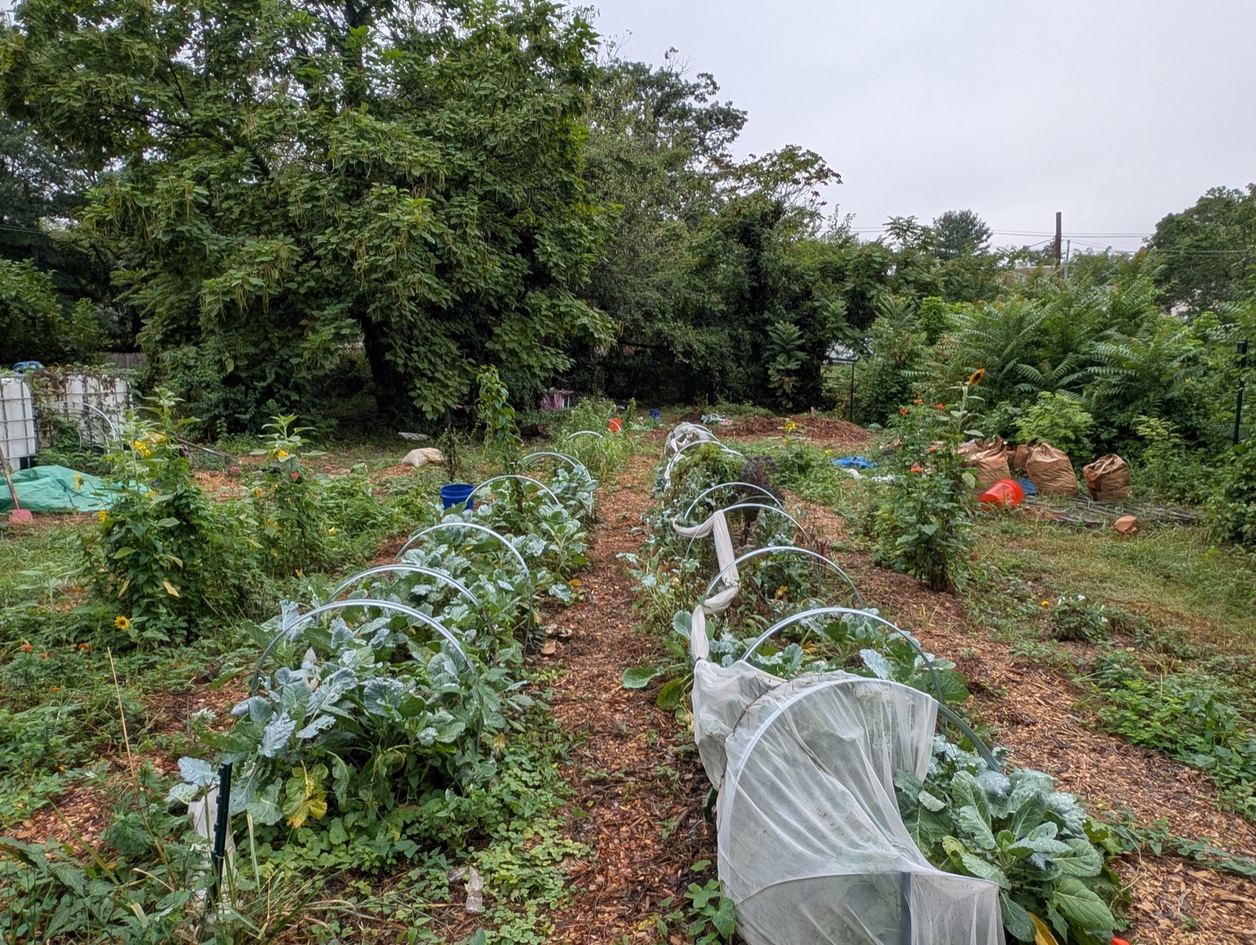
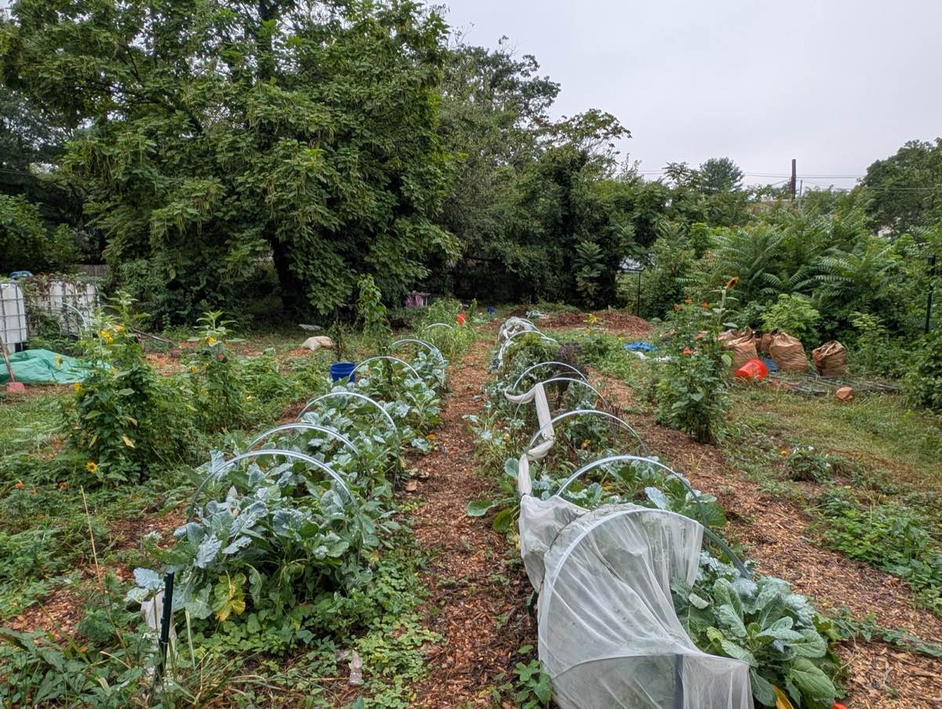
Darken hero overlay for text readability, compress hero image further
Hero image 787KB → 225KB for faster initial load. Increased
overlay opacity so text is easier to read over the photo.

diff --git a/index.html b/index.html
@@ -137,9 +137,9 @@
             inset: 0;
             background: linear-gradient(
                 to bottom,
-                rgba(27,58,26,0.35) 0%,
-                rgba(27,58,26,0.15) 40%,
-                rgba(27,58,26,0.65) 70%,
+                rgba(27,58,26,0.55) 0%,
+                rgba(27,58,26,0.4) 40%,
+                rgba(27,58,26,0.75) 70%,
                 rgba(27,58,26,0.95) 100%
             );
         }
